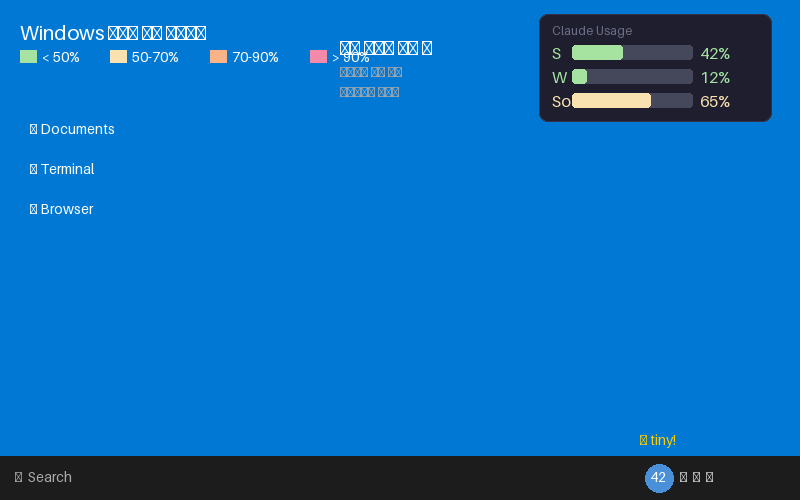
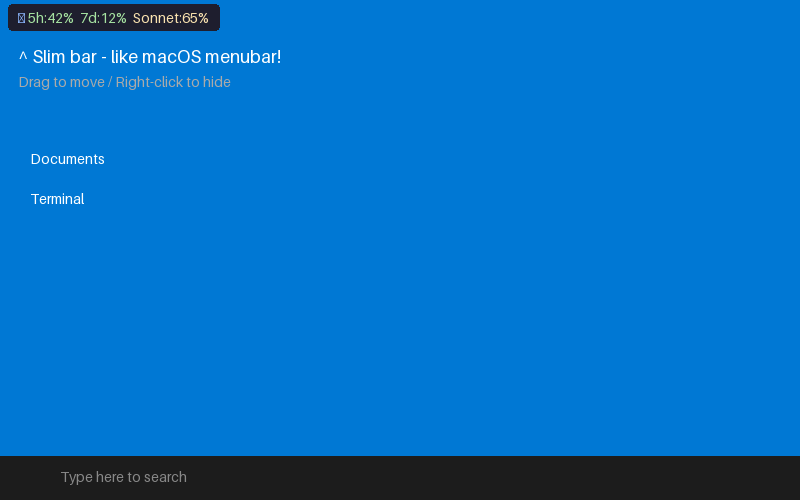
feat: 플로팅 위젯을 슬림 바 형태로 변경
- 박스형 → 한 줄 슬림 바 (macOS 메뉴바 스타일)
- ☁ 5h:42% 7d:12% Sonnet:65% 형태로 컴팩트 표시
- 기본 위치 좌상단, 드래그 이동/우클릭 숨기기 유지

https://claude.ai/code/session_017AWTxYTUiWMp56w4GfB45i

diff --git a/claude_menubar_windows.py b/claude_menubar_windows.py
@@ -902,7 +902,7 @@ def _send_notification(title, message):
 # ─── Floating Widget ─────────────────────────────────────────────────────────
 
 class FloatingWidget:
-    """Always-on-top translucent overlay showing usage at a glance."""
+    """Always-on-top slim bar showing usage at a glance, like a macOS menubar."""
 
     BG = "#1E1E2E"
     FG = "#CDD6F4"
@@ -917,29 +917,36 @@ class FloatingWidget:
         self._root.withdraw()  # hide until first update
         self._root.overrideredirect(True)  # no title bar
         self._root.attributes("-topmost", True)
-        self._root.attributes("-alpha", 0.88)
+        self._root.attributes("-alpha", 0.92)
         self._root.configure(bg=self.BG)
 
-        # Container frame with rounded-corner look
-        self._frame = tk.Frame(self._root, bg=self.BG, padx=10, pady=5)
+        # Single-row horizontal bar
+        self._frame = tk.Frame(self._root, bg=self.BG, padx=6, pady=2)
         self._frame.pack()
 
-        # Labels: Session / Week / Sonnet — one row each
+        # App icon label
+        icon_lbl = tk.Label(self._frame, text="\u2601", font=("Segoe UI", 10),
+                            fg="#89B4FA", bg=self.BG)
+        icon_lbl.pack(side="left", padx=(0, 4))
+
+        # Inline labels packed horizontally
         self._labels = {}
         for key in ("session", "week", "sonnet"):
-            lbl = tk.Label(self._frame, text="", font=("Segoe UI", 10),
-                           fg=self.FG, bg=self.BG, anchor="w")
-            lbl.pack(anchor="w")
+            lbl = tk.Label(self._frame, text="", font=("Segoe UI", 9),
+                           fg=self.FG, bg=self.BG)
+            lbl.pack(side="left", padx=(0, 2))
             self._labels[key] = lbl
 
         # Drag support
         self._drag_data = {"x": 0, "y": 0}
-        self._root.bind("<ButtonPress-1>", self._on_drag_start)
-        self._root.bind("<B1-Motion>", self._on_drag_move)
-        self._root.bind("<ButtonRelease-1>", self._on_drag_end)
+        for widget in [self._root, self._frame, icon_lbl]:
+            widget.bind("<ButtonPress-1>", self._on_drag_start)
+            widget.bind("<B1-Motion>", self._on_drag_move)
+            widget.bind("<ButtonRelease-1>", self._on_drag_end)
 
         # Right-click to hide
         self._root.bind("<Button-3>", self._on_right_click)
+        self._frame.bind("<Button-3>", self._on_right_click)
 
         # Restore saved position
         config = _load_config()
@@ -948,10 +955,8 @@ class FloatingWidget:
         if wx is not None and wy is not None:
             self._root.geometry(f"+{wx}+{wy}")
         else:
-            # Default: top-right corner
-            self._root.update_idletasks()
-            sw = self._root.winfo_screenwidth()
-            self._root.geometry(f"+{sw - 280}+10")
+            # Default: top-left corner
+            self._root.geometry("+8+4")
 
         self._visible = config.get("show_widget", True)
 
@@ -964,11 +969,6 @@ class FloatingWidget:
             return self.YELLOW
         return self.GREEN
 
-    def _mini_bar(self, pct, width=10):
-        pct = max(0, min(100, pct))
-        filled = round(width * pct / 100)
-        return "\u2588" * filled + "\u2591" * (width - filled)
-
     def _on_drag_start(self, event):
         self._drag_data["x"] = event.x
         self._drag_data["y"] = event.y
@@ -979,7 +979,6 @@ class FloatingWidget:
         self._root.geometry(f"+{x}+{y}")
 
     def _on_drag_end(self, event):
-        # Save position to config
         config = _load_config()
         config["widget_x"] = self._root.winfo_x()
         config["widget_y"] = self._root.winfo_y()
@@ -998,36 +997,33 @@ class FloatingWidget:
 
         config = data.get("config", {})
         api_ok = data.get("api_ok", False)
-        est = "" if api_ok else "~"
+        est = "~" if not api_ok else ""
 
         sess_pct = data.get("sess_pct", 0)
         week_pct = data.get("week_pct", 0)
         sonnet_pct = data.get("sonnet_pct")
 
         if config.get("show_session", True):
-            bar = self._mini_bar(sess_pct)
             self._labels["session"].config(
-                text=f"5h      {bar}  {est}{sess_pct:.0f}%",
+                text=f"5h:{est}{sess_pct:.0f}%",
                 fg=self._color_for_pct(sess_pct))
-            self._labels["session"].pack(anchor="w")
+            self._labels["session"].pack(side="left", padx=(0, 6))
         else:
             self._labels["session"].pack_forget()
 
         if config.get("show_week", True):
-            bar = self._mini_bar(week_pct)
             self._labels["week"].config(
-                text=f"7d      {bar}  {est}{week_pct:.0f}%",
+                text=f"7d:{est}{week_pct:.0f}%",
                 fg=self._color_for_pct(week_pct))
-            self._labels["week"].pack(anchor="w")
+            self._labels["week"].pack(side="left", padx=(0, 6))
         else:
             self._labels["week"].pack_forget()
 
         if config.get("show_sonnet", True) and sonnet_pct is not None:
-            bar = self._mini_bar(sonnet_pct)
             self._labels["sonnet"].config(
-                text=f"Sonnet  {bar}  {sonnet_pct:.0f}%",
+                text=f"Sonnet:{sonnet_pct:.0f}%",
                 fg=self._color_for_pct(sonnet_pct))
-            self._labels["sonnet"].pack(anchor="w")
+            self._labels["sonnet"].pack(side="left", padx=(0, 2))
         else:
             self._labels["sonnet"].pack_forget()
 
